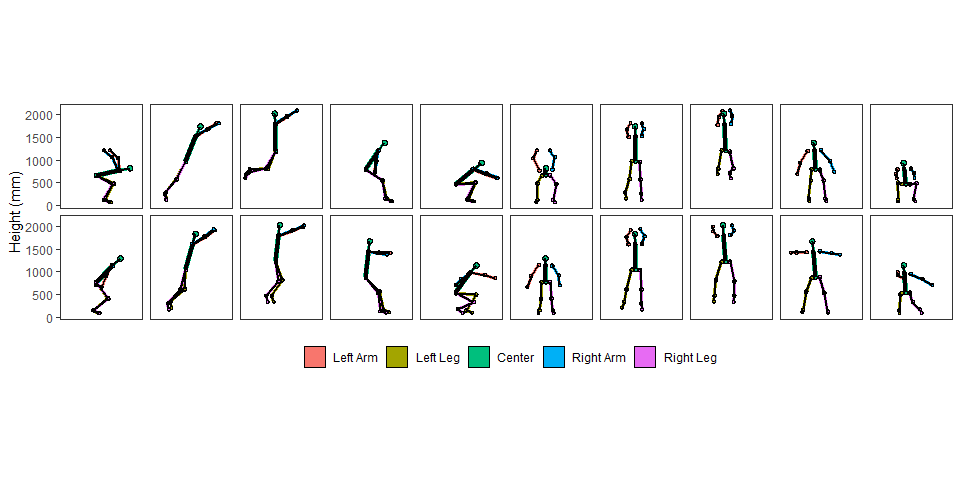
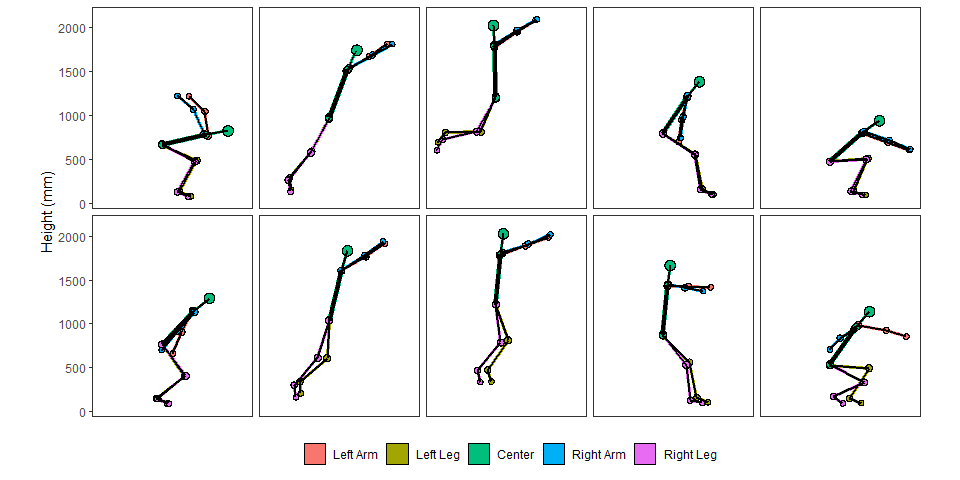
Update README and knit

diff --git a/README.md b/README.md
@@ -461,10 +461,11 @@ mocapr_data %>%
     phase %in% c(2, 4, 6, 8) | CGY == max(CGY)) %>% 
   
   animate_anatomical(
-    row_facets = movement_nr,
-    col_facets = phase,
-    return_plot = TRUE,
-    
+    planes = "F",             # Show only the forward plane, change to "R for the forward plane. Remove for both planes
+    row_facets = movement_nr, # Facet the two movements in two rows
+    col_facets = phase,       # Facet the phases in columns
+    return_plot = TRUE,       # Return a plot
+
     # Just styling options
     use_geom_point = FALSE,
     line_colored_size = 1.2,
